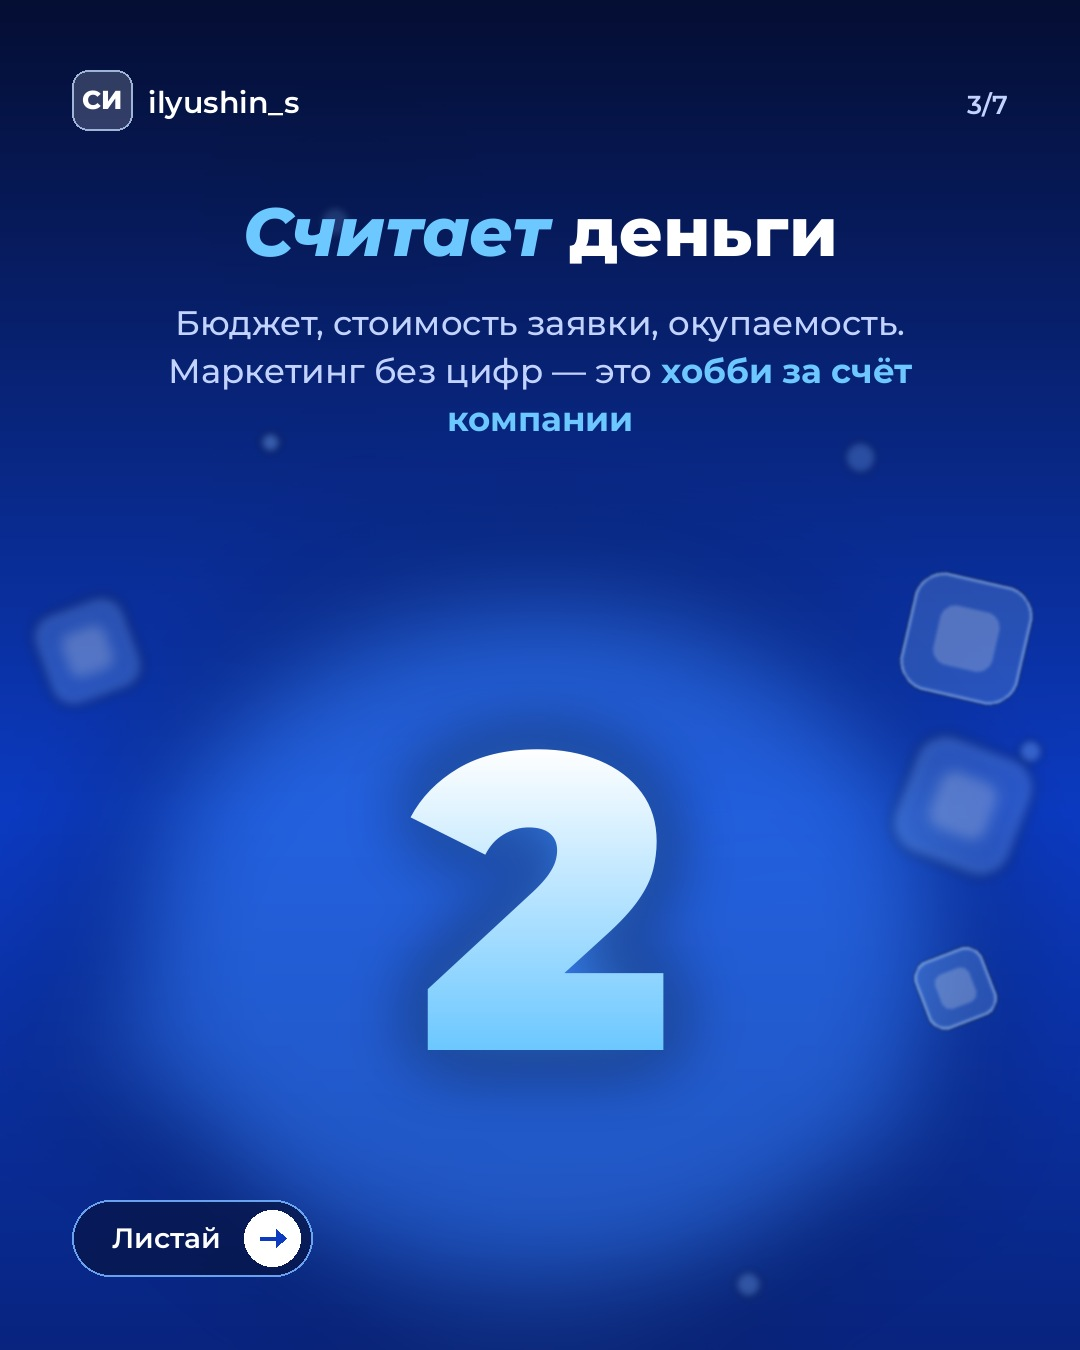
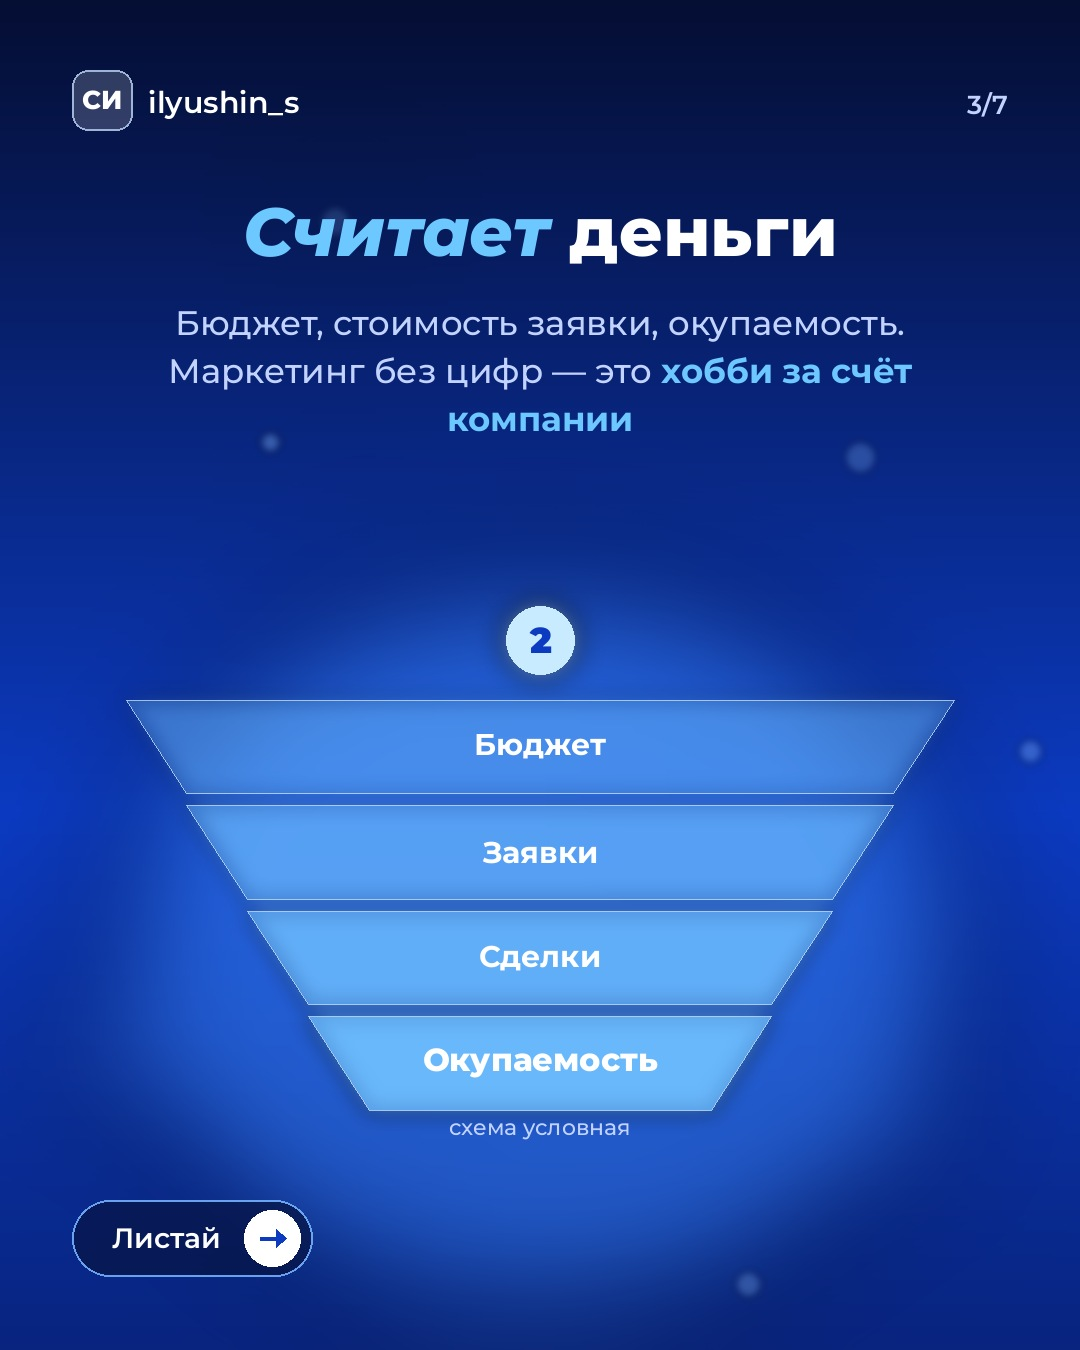
Slides: infographic visuals (hub, persona, funnel, journey, matrix, chart, donut)
Add infographics to the SMM carousel; illustrative charts are labelled «схема условная».

Claude-Session: https://claude.ai/code/session_01SfNTny1ALLrmUctdFTJZxh

Changed region(s): [[0.0306, 0.4044, 0.9778, 0.84], [0.825, 0.6844, 0.9472, 0.7778]]

diff --git a/igagent/slides.py b/igagent/slides.py
@@ -310,7 +310,8 @@ def _render_neon(slides: list[dict], out_dir: Path, handle: str) -> list[Path]:
     total = len(slides)
     for idx, slide in enumerate(slides, start=1):
         img = _background(c, seed=idx * 7919 + len(slide.get("title", "")))
-        _glass_tiles(img, seed=idx)
+        if not slide.get("visual"):
+            _glass_tiles(img, seed=idx)
         d = ImageDraw.Draw(img)
         _logo(img, handle, c)
         counter = f"{idx}/{total}"
@@ -336,7 +337,15 @@ def _render_neon(slides: list[dict], out_dir: Path, handle: str) -> list[Path]:
         hero_top, hero_bottom = max(y + 50, 640), H - 190
         hero_center = (W // 2, (hero_top + hero_bottom) // 2)
         image = slide.get("image")
-        if image and (config.ROOT / image).exists():
+        visual = slide.get("visual") or {}
+        if visual:
+            if number:  # номер шага — маленький светящийся бейдж над схемой
+                _glow_layer(img, lambda o: o.ellipse([W / 2 - 34, hero_top - 34, W / 2 + 34, hero_top + 34],
+                                                     fill=(200, 235, 255, 255)), 14)
+                _center_text(ImageDraw.Draw(img), number, W / 2, hero_top, _mont(36, 900), c["mid"])
+                hero_top += 60
+            _visual(img, (90, hero_top, W - 90, hero_bottom - 10), visual, c)
+        elif image and (config.ROOT / image).exists():
             hw = min(820, int((hero_bottom - hero_top) * 1.25))
             hh = hero_bottom - hero_top
             _photo(img, config.ROOT / image, (W // 2 - hw // 2, hero_top, W // 2 + hw // 2, hero_top + hh), c)
@@ -352,3 +361,295 @@ def _render_neon(slides: list[dict], out_dir: Path, handle: str) -> list[Path]:
         img.convert("RGB").save(path, "JPEG", quality=93)
         paths.append(path)
     return paths
+
+
+# --- инфографика ---------------------------------------------------------------
+# В слайде: visual: {type: hub|persona|funnel|journey|matrix|chart|donut, ...}
+#   hub:     center, items[]                  — понятие и его составляющие
+#   persona: items[{label, sub}]              — роли / аудитории
+#   funnel:  items[]                          — воронка сверху вниз
+#   journey: items[], span                    — этапы пути; span — подпись над всей линией
+#   matrix:  x, y, points[{label, x, y}]      — позиционирование (x, y от 0 до 1)
+#   chart:   values[], forecast_from          — факт и пунктирный прогноз
+#   donut:   center, items[{label, value}]    — доли целого
+# Слова с *звёздочками* в подписях выделяются акцентом. Числа на схемах — иллюстрация,
+# подпись `note` выводится мелко под схемой (например «схема условная»).
+
+def _plain(text: str) -> tuple[str, bool]:
+    return text.replace("*", ""), "*" in text
+
+
+def _center_text(d, text, cx, cy, font, fill):
+    box = d.textbbox((0, 0), text, font=font)
+    d.text((cx - (box[2] - box[0]) / 2 - box[0], cy - (box[3] - box[1]) / 2 - box[1]), text, font=font, fill=fill)
+
+
+def _wrap_center(d, text, cx, cy, font, fill, max_w, line_h):
+    words, lines, cur = text.split(), [], ""
+    for w in words:
+        test = f"{cur} {w}".strip()
+        if cur and d.textlength(test, font=font) > max_w:
+            lines.append(cur)
+            cur = w
+        else:
+            cur = test
+    lines.append(cur)
+    y = cy - (len(lines) - 1) * line_h / 2
+    for line in lines:
+        _center_text(d, line, cx, y, font, fill)
+        y += line_h
+
+
+def _glow_layer(img, draw_fn, blur=18):
+    layer = Image.new("RGBA", (W, H), (0, 0, 0, 0))
+    draw_fn(ImageDraw.Draw(layer))
+    img.alpha_composite(layer.filter(ImageFilter.GaussianBlur(blur)))
+    img.alpha_composite(layer)
+
+
+def _panel(o, box, hl=False, radius=26, solid=False):
+    if solid:
+        fill = (55, 125, 240, 250) if hl else (16, 52, 160, 245)
+    else:
+        fill = (110, 190, 255, 95) if hl else (160, 200, 255, 40)
+    o.rounded_rectangle(box, radius=radius, fill=fill, outline=(190, 225, 255, 210 if hl else 130), width=3 if hl else 2)
+
+
+def _person(o, cx, cy, s, color):
+    o.ellipse([cx - s * .22, cy - s * .5, cx + s * .22, cy - s * .06], fill=color)
+    o.rounded_rectangle([cx - s * .38, cy, cx + s * .38, cy + s * .5], radius=int(s * .22), fill=color)
+
+
+def _v_hub(img, box, v, c):
+    x0, y0, x1, y1 = box
+    cx, cy = (x0 + x1) // 2, (y0 + y1) // 2
+    items = v.get("items", [])
+    R = min(x1 - x0 - 260, y1 - y0 - 120) / 2
+    import math
+    pts = []
+    for i, _ in enumerate(items):
+        a = -math.pi / 2 + 2 * math.pi * i / max(1, len(items))
+        pts.append((cx + R * 1.25 * math.cos(a), cy + R * math.sin(a)))
+    _glow_layer(img, lambda o: [o.line([(cx, cy), p], fill=(140, 200, 255, 170), width=4) for p in pts], 10)
+    lf = _mont(28, 700)
+    o = Image.new("RGBA", (W, H), (0, 0, 0, 0))
+    od = ImageDraw.Draw(o)
+    for (px, py), item in zip(pts, items):
+        text, hl = _plain(item)
+        tw = od.textlength(text, font=lf)
+        _panel(od, [px - tw / 2 - 26, py - 32, px + tw / 2 + 26, py + 32], hl, radius=32, solid=True)
+    _panel(od, [cx - 120, cy - 70, cx + 120, cy + 70], True, radius=40, solid=True)
+    img.alpha_composite(o)
+    d = ImageDraw.Draw(img)
+    for (px, py), item in zip(pts, items):
+        text, hl = _plain(item)
+        _center_text(d, text, px, py, lf, "white" if not hl else c["text"])
+    _wrap_center(d, v.get("center", ""), cx, cy, _mont(32, 800), "white", 210, 38)
+
+
+def _v_persona(img, box, v, c):
+    x0, y0, x1, y1 = box
+    items = v.get("items", [])
+    n = max(1, len(items))
+    gap = 26
+    cw = (x1 - x0 - gap * (n - 1)) / n
+    ch = min(y1 - y0, 360)
+    top = (y0 + y1 - ch) / 2
+    o = Image.new("RGBA", (W, H), (0, 0, 0, 0))
+    od = ImageDraw.Draw(o)
+    for i, item in enumerate(items):
+        label, hl = _plain(item.get("label", ""))
+        bx = x0 + i * (cw + gap)
+        _panel(od, [bx, top, bx + cw, top + ch], hl)
+        _person(od, bx + cw / 2, top + ch * .36, ch * .38, (220, 240, 255, 235) if hl else (170, 205, 255, 200))
+    if any(_plain(it.get("label", ""))[1] for it in items):
+        img.alpha_composite(o.filter(ImageFilter.GaussianBlur(14)))
+    img.alpha_composite(o)
+    d = ImageDraw.Draw(img)
+    for i, item in enumerate(items):
+        label, hl = _plain(item.get("label", ""))
+        bx = x0 + i * (cw + gap)
+        _wrap_center(d, label, bx + cw / 2, top + ch * .74, _mont(30 if hl else 28, 800), "white", cw - 30, 34)
+        _wrap_center(d, item.get("sub", ""), bx + cw / 2, top + ch * .89, _mont(22, 600 if hl else 500),
+                     "white" if hl else c["muted"], cw - 30, 28)
+
+
+def _v_funnel(img, box, v, c):
+    x0, y0, x1, y1 = box
+    items = v.get("items", [])
+    n = max(1, len(items))
+    gap = 12
+    h = min(110, (y1 - y0 - gap * (n - 1)) / n)
+    total_h = n * h + gap * (n - 1)
+    top = (y0 + y1 - total_h) / 2
+    cx = (x0 + x1) / 2
+    wmax, wmin = (x1 - x0) * .92, (x1 - x0) * .38
+    o = Image.new("RGBA", (W, H), (0, 0, 0, 0))
+    od = ImageDraw.Draw(o)
+    for i in range(n):
+        wt = wmax - (wmax - wmin) * i / n
+        wb = wmax - (wmax - wmin) * (i + 1) / n
+        yt = top + i * (h + gap)
+        alpha = 70 + int(120 * i / max(1, n - 1))
+        od.polygon([(cx - wt / 2, yt), (cx + wt / 2, yt), (cx + wb / 2, yt + h), (cx - wb / 2, yt + h)],
+                   fill=(110, 190, 255, alpha), outline=(200, 230, 255, 200))
+    img.alpha_composite(o.filter(ImageFilter.GaussianBlur(10)))
+    img.alpha_composite(o)
+    d = ImageDraw.Draw(img)
+    for i, item in enumerate(items):
+        text, hl = _plain(item)
+        _center_text(d, text, cx, top + i * (h + gap) + h / 2, _mont(32 if hl else 30, 800 if hl else 700),
+                     "white")
+
+
+def _v_journey(img, box, v, c):
+    x0, y0, x1, y1 = box
+    items = v.get("items", [])
+    n = max(2, len(items))
+    cy = (y0 + y1) / 2 + 20
+    xs = [x0 + 40 + (x1 - x0 - 80) * i / (n - 1) for i in range(len(items))]
+    _glow_layer(img, lambda o: o.line([(xs[0], cy), (xs[-1], cy)], fill=(140, 200, 255, 220), width=6), 10)
+    if v.get("span"):
+        def bracket(o):
+            by = cy - 120
+            o.line([(xs[0], by + 22), (xs[0], by), (xs[-1], by), (xs[-1], by + 22)], fill=(180, 220, 255, 200), width=3)
+        _glow_layer(img, bracket, 6)
+        d = ImageDraw.Draw(img)
+        nt = _plain(v["span"])[0]
+        f = _mont(28, 700)
+        tw = d.textlength(nt, font=f)
+        mx = (xs[0] + xs[-1]) / 2
+        _overlay(img, lambda o: o.rounded_rectangle([mx - tw / 2 - 24, cy - 148, mx + tw / 2 + 24, cy - 92],
+                                                     radius=28, fill=(10, 40, 130, 255), outline=(150, 210, 255, 220), width=2))
+        _center_text(ImageDraw.Draw(img), nt, mx, cy - 120, f, c["accent"])
+    for i, (x, item) in enumerate(zip(xs, items)):
+        text, hl = _plain(item)
+        r = 30 if hl else 24
+        _glow_layer(img, lambda o: o.ellipse([x - r, cy - r, x + r, cy + r], fill=(200, 235, 255, 255) if hl else (120, 190, 255, 255),
+                                             outline=(230, 245, 255, 255), width=3), 12)
+        d = ImageDraw.Draw(img)
+        _wrap_center(d, text, x, cy + 78 + (34 if i % 2 else 0), _mont(26, 700), c["accent"] if hl else "white", 180, 30)
+
+
+def _v_matrix(img, box, v, c):
+    x0, y0, x1, y1 = box
+    side = min(x1 - x0 - 120, y1 - y0 - 70)
+    ox, oy = (x0 + x1) / 2 - side / 2 + 20, (y0 + y1) / 2 + side / 2 - 10
+    def axes(o):
+        o.line([(ox, oy), (ox + side, oy)], fill=(180, 220, 255, 220), width=4)
+        o.line([(ox, oy), (ox, oy - side)], fill=(180, 220, 255, 220), width=4)
+        o.polygon([(ox + side + 14, oy), (ox + side, oy - 9), (ox + side, oy + 9)], fill=(180, 220, 255, 220))
+        o.polygon([(ox, oy - side - 14), (ox - 9, oy - side), (ox + 9, oy - side)], fill=(180, 220, 255, 220))
+        for k in (1, 2, 3):
+            o.line([(ox + side * k / 4, oy), (ox + side * k / 4, oy - side)], fill=(150, 200, 255, 45), width=2)
+            o.line([(ox, oy - side * k / 4), (ox + side, oy - side * k / 4)], fill=(150, 200, 255, 45), width=2)
+    _glow_layer(img, axes, 6)
+    d = ImageDraw.Draw(img)
+    f = _mont(24, 600)
+    d.text((ox + side - d.textlength(v.get("x", ""), font=f), oy + 14), v.get("x", ""), font=f, fill=c["muted"])
+    lbl = Image.new("RGBA", (400, 40), (0, 0, 0, 0))
+    ImageDraw.Draw(lbl).text((0, 0), v.get("y", ""), font=f, fill=c["muted"])
+    lbl = lbl.rotate(90, expand=True)
+    img.alpha_composite(lbl, (int(ox - 48), int(oy - side + 0)))
+    for p in v.get("points", []):
+        text, hl = _plain(p.get("label", ""))
+        px, py = ox + side * p.get("x", .5), oy - side * p.get("y", .5)
+        r = 26 if hl else 16
+        _glow_layer(img, lambda o: o.ellipse([px - r, py - r, px + r, py + r],
+                                             fill=(210, 240, 255, 255) if hl else (120, 180, 255, 230)), 16 if hl else 6)
+        d = ImageDraw.Draw(img)
+        d.text((px + r + 12, py - 18), text, font=_mont(30 if hl else 26, 800 if hl else 600),
+               fill=c["accent"] if hl else c["muted"])
+
+
+def _v_chart(img, box, v, c):
+    x0, y0, x1, y1 = box
+    vals = v.get("values", [])
+    split = v.get("forecast_from", len(vals))
+    if len(vals) < 2:
+        return
+    lo, hi = min(vals), max(vals)
+    gx0, gx1, gy0, gy1 = x0 + 30, x1 - 30, y0 + 40, y1 - 50
+    pts = [(gx0 + (gx1 - gx0) * i / (len(vals) - 1), gy1 - (gy1 - gy0) * (vv - lo) / max(1e-9, hi - lo)) for i, vv in enumerate(vals)]
+    def area(o):
+        poly = pts[:split] + [(pts[split - 1][0], gy1), (pts[0][0], gy1)]
+        o.polygon(poly, fill=(90, 170, 255, 70))
+        for k in range(4):
+            yy = gy0 + (gy1 - gy0) * k / 3
+            o.line([(gx0, yy), (gx1, yy)], fill=(150, 200, 255, 40), width=2)
+    _overlay(img, area)
+    _glow_layer(img, lambda o: o.line(pts[:split], fill=(200, 235, 255, 255), width=7, joint="curve"), 12)
+    def dashed(o):
+        seg = pts[split - 1:]
+        for a, b in zip(seg, seg[1:]):
+            n = 8
+            for k in range(0, n, 2):
+                p = (a[0] + (b[0] - a[0]) * k / n, a[1] + (b[1] - a[1]) * k / n)
+                q = (a[0] + (b[0] - a[0]) * (k + 1) / n, a[1] + (b[1] - a[1]) * (k + 1) / n)
+                o.line([p, q], fill=_rgb(c["accent"]) + (255,), width=6)
+        bx = pts[split - 1][0]
+        for yy in range(int(gy0), int(gy1), 18):
+            o.line([(bx, yy), (bx, yy + 9)], fill=(180, 220, 255, 120), width=2)
+    _glow_layer(img, dashed, 8)
+    d = ImageDraw.Draw(img)
+    f = _mont(26, 700)
+    d.text((pts[0][0], gy1 + 14), v.get("fact_label", "факт"), font=f, fill="white")
+    fl = v.get("forecast_label", "прогноз")
+    d.text((gx1 - d.textlength(fl, font=f), gy1 + 14), fl, font=f, fill=c["accent"])
+    lx, ly = pts[split - 1]
+    _glow_layer(img, lambda o: o.ellipse([lx - 14, ly - 14, lx + 14, ly + 14], fill=(255, 255, 255, 255)), 10)
+
+
+def _v_donut(img, box, v, c):
+    x0, y0, x1, y1 = box
+    items = v.get("items", [])
+    total = sum(i.get("value", 1) for i in items) or 1
+    r = min((y1 - y0) / 2 - 10, (x1 - x0) * .25)
+    cx, cy = x0 + r + 30, (y0 + y1) / 2
+    shades = [(40, 110, 230), (70, 140, 245), (100, 165, 255), (135, 190, 255), (170, 210, 255)]
+    o = Image.new("RGBA", (W, H), (0, 0, 0, 0))
+    od = ImageDraw.Draw(o)
+    start = -90
+    for i, item in enumerate(items):
+        ext = 360 * item.get("value", 1) / total
+        hl = _plain(item.get("label", ""))[1]
+        col = _rgb(c["accent"]) if hl else shades[i % len(shades)]
+        rr = r + (14 if hl else 0)
+        od.pieslice([cx - rr, cy - rr, cx + rr, cy + rr], start + 1, start + ext - 1, fill=col + (255,))
+        start += ext
+    hole = r * .58
+    od.ellipse([cx - hole, cy - hole, cx + hole, cy + hole], fill=(0, 0, 0, 0))
+    mask = Image.new("L", (W, H), 255)
+    ImageDraw.Draw(mask).ellipse([cx - hole, cy - hole, cx + hole, cy + hole], fill=0)
+    o.putalpha(Image.composite(o.getchannel("A"), Image.new("L", (W, H), 0), mask))
+    img.alpha_composite(o.filter(ImageFilter.GaussianBlur(14)))
+    img.alpha_composite(o)
+    d = ImageDraw.Draw(img)
+    _wrap_center(d, v.get("center", ""), cx, cy, _mont(28, 800), "white", hole * 1.7, 32)
+    lx = cx + r + 60
+    ly = cy - (len(items) - 1) * 56 / 2
+    for i, item in enumerate(items):
+        text, hl = _plain(item.get("label", ""))
+        col = _rgb(c["accent"]) if hl else shades[i % len(shades)]
+        d.rounded_rectangle([lx, ly - 13, lx + 26, ly + 13], radius=7, fill=col)
+        d.text((lx + 42, ly - 18), text, font=_mont(30 if hl else 28, 800 if hl else 600),
+               fill=c["accent"] if hl else "white")
+        ly += 56
+
+
+VISUALS = {"hub": _v_hub, "persona": _v_persona, "funnel": _v_funnel, "journey": _v_journey,
+           "matrix": _v_matrix, "chart": _v_chart, "donut": _v_donut}
+
+
+def _visual(img, box, v, c) -> None:
+    fn = VISUALS.get(v.get("type", ""))
+    if not fn:
+        return
+    x0, y0, x1, y1 = box
+    note = v.get("note")
+    if note:
+        y1 -= 40
+    fn(img, (x0, y0, x1, y1), v, c)
+    if note:
+        d = ImageDraw.Draw(img)
+        _center_text(d, note, W / 2, y1 + 22, _mont(22, 500), c["muted"])

diff --git a/igagent/queue.py b/igagent/queue.py
@@ -25,6 +25,7 @@ class Slide(BaseModel):
     body: str = ""
     cta: str = ""       # текст кнопки внизу (по умолчанию «Листай» / «Сохрани себе»)
     image: str = ""     # путь к фото для центра слайда (необязательно)
+    visual: dict = Field(default_factory=dict)  # инфографика: {type: hub|persona|funnel|journey|matrix|chart|donut, ...}
 
 
 class QueueItem(BaseModel):
